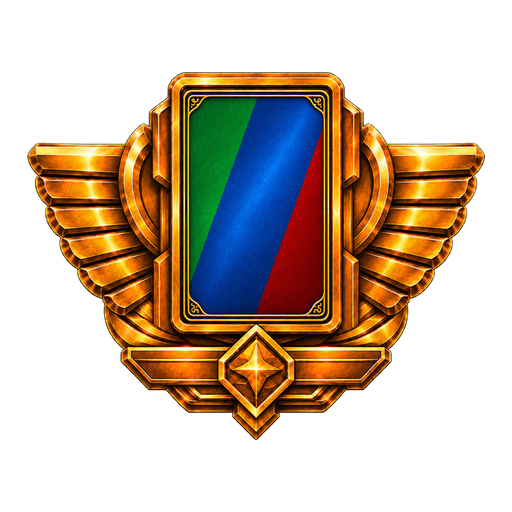
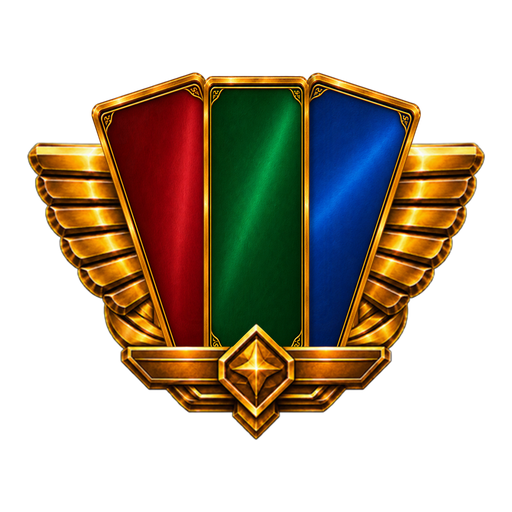
Innovator award · the generated premium badge replaces phase 1's composite (A. Manufacturer's wings and gem · a FAN of three cards — red · green · blue — no longer Administrator's near-twin); the fit entry measures the same

diff --git a/docs/claude/ma-premium-icons-worklist.md b/docs/claude/ma-premium-icons-worklist.md
@@ -36,8 +36,8 @@
 
 ## Пришли с Amazonis Planitia (апстрим fc8bd8e0e1, 2026-11-06) — сделаны композитами семьи (3)
 
-2026-11-06 (фаза 1 карты): Merchant3 = `merchant` с плашкой «3» из `sponsor`; Innovator = рамка `a-manufacturer`, лицо
-зелёное / синее / красное по диагонали (семья `administrator`); Physicist = `traveller` с медальонами `scientist` +
+2026-11-06 (фаза 1 карты): Merchant3 = `merchant` с плашкой «3» из `sponsor`; Innovator — композит (карта в полосах, почти двойник
+`administrator`) заменён сгенерированным веером трёх карт; Physicist = `traveller` с медальонами `scientist` +
 `space-baron`; Constructor (№14) — композит заменён сгенерированным артом того же каркаса (треугольник колонии + шестиугольник города).
 Подгонка (`maArtFit.json`) — запись базы. Владелец может заменить любой своим артом.
 
@@ -48,7 +48,7 @@ Innovator и Physicist войдут с фазой 2 адаптации (стро
 | # | Позиция | Тип | Механика (по коду) | Семья-образец |
 |---|---|---|---|---|
 | 16 | ✅ **Merchant3** | веха | После оплаты вехи остаться с 3 единицами КАЖДОГО стандартного ресурса | `merchant` один в один, плашка «3» вместо «2» (в одной партии с Merchant не встречается) |
-| 17 | ✅ **Innovator** | награда | Больше всех сыгранных карт проектов — зелёных, синих И красных (события считаются) | награда-карта (`a-manufacturer`) — веер трёх карт зелёная / синяя / красная |
+| 17 | ✅ **Innovator** | награда | Больше всех сыгранных карт проектов — зелёных, синих И красных (события считаются) | крылья и камень `a-manufacturer`, вместо окна — ВЕЕР трёх карт красная / зелёная / синяя в золотых оправах (сгенерированный арт) |
 | 18 | ✅ **Physicist** | награда | Больше всех меток науки и космоса вместе | медальон / пара (`traveller`) — метки науки + космоса |
 
 ## Вне пула ALL (для справки)
